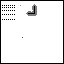
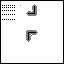
added lamp to player

Changed region(s): [[0.4062, 0.4688, 0.5938, 0.6562], [0.3438, 0.5625, 0.375, 0.5938]]

diff --git a/js/InvertedPacMan.js b/js/InvertedPacMan.js
@@ -1,4 +1,7 @@
 import * as THREE from "../node_modules/three/build/three.module.js";
+import { EffectComposer } from "three/examples/jsm/postprocessing/EffectComposer.js";
+import { RenderPass } from "three/examples/jsm/postprocessing/RenderPass.js";
+import { BloomPass } from "three/examples/jsm/postprocessing/BloomPass.js";
 import { Player } from "./Player.js";
 import { Skybox } from "./Skybox.js";
 import { Level } from "./Level.js";
@@ -14,7 +17,7 @@ class InvertedPacman {
 	constructor() {
 		this._init();
 
-		this._RAF();
+		this.update();
 	}
 
 	addToScene(object) {
@@ -39,6 +42,8 @@ class InvertedPacman {
 		this.renderer.shadowMap.enabled = true;
 		this.renderer.shadowMap.type = THREE.PCFShadowMap;
 
+		this.composer = new EffectComposer(this.renderer);
+
 		window.addEventListener(
 			"resize",
 			() => {
@@ -50,6 +55,8 @@ class InvertedPacman {
 
 	_initScene() {
 		this.scene = new THREE.Scene();
+
+		// this.scene.fog = new THREE.Fog(0xc5d4d9, 0, 50);
 
 		this.sun = new THREE.DirectionalLight(0xffffff);
 		this.sun.position.set(0, 1, 0);
@@ -85,7 +92,7 @@ class InvertedPacman {
 
 			this._initPacman();
 
-			// this._addDebugShapes();
+			this._addDebugShapes();
 		});
 	}
 
@@ -114,6 +121,18 @@ class InvertedPacman {
 			this._OnWindowResize();
 
 			this.ready = true;
+			this.scene.add(new THREE.SpotLightHelper(this.player.lamp));
+
+			const renderPass = new RenderPass(this.scene, this.player.camera);
+			this.composer.addPass(renderPass);
+
+			const bloomPass = new BloomPass(
+				1, // strength
+				25, // kernel size
+				4, // sigma ?
+				256 // blur render target resolution
+			);
+			this.composer.addPass(bloomPass);
 		});
 	}
 
@@ -151,8 +170,8 @@ class InvertedPacman {
 		this.player.boundingBox.setFromObject(this.player.model);
 		this.pacman.boundingBox.setFromObject(this.pacman.model);
 
-		// this.playerBoxHelper.box = this.player.boundingBox;
-		// this.pacmanBoxHelper.box = this.pacman.boundingBox;
+		this.playerBoxHelper.box = this.player.boundingBox;
+		this.pacmanBoxHelper.box = this.pacman.boundingBox;
 
 		if (this.player.boundingBox.intersectsBox(this.pacman.boundingBox)) {
 			dispatchEvent(this.playerPacmanCollision);
@@ -161,15 +180,26 @@ class InvertedPacman {
 
 	clock = new THREE.Clock();
 
-	_RAF() {
+	// update() {
+	// 	if (!this.ready) {
+	// 		this.update();
+	// 		return;
+	// 	}
+	// 	requestAnimationFrame(this.update);
+	// 	this.renderer.render(this.scene, this.player.camera);
+	// 	const delta = this.clock.getDelta();
+	// 	// this.composer.render(delta);
+	// }
+
+	update() {
 		requestAnimationFrame(() => {
 			if (!this.ready) {
-				this._RAF();
+				this.update();
 				return;
 			}
-			this.renderer.render(this.scene, this.player.camera);
-			// this.renderer.render(this.scene, this.camera);
 			let delta = this.clock.getDelta();
+			this.renderer.render(this.scene, this.player.camera);
+			// this.composer.render(delta);
 
 			this.player.update(delta, this.clock.getElapsedTime());
 
@@ -179,7 +209,7 @@ class InvertedPacman {
 
 			this.checkPlayerPacmanCollision();
 
-			this._RAF();
+			this.update();
 		});
 	}
 }

diff --git a/js/Player.js b/js/Player.js
@@ -35,6 +35,7 @@ export class Player extends DynamicBody {
 
 	model;
 	camera;
+	lamp;
 
 	get getModel() {
 		return this.model;
@@ -145,19 +146,44 @@ export class Player extends DynamicBody {
 			function shaderLoaded(material) {
 				material.transparent = true;
 				material.lights = true;
+				let lightTarget;
 				mesh.traverse(function (obj) {
 					if (obj.isMesh) {
 						if (obj.name == "Ghost") {
 							obj.castShadow = true;
 							obj.receiveShadow = true;
 							obj.material = material;
+							self.calculateExtents(obj.geometry);
 						}
 					}
+					if (obj.name == "LampPoint") {
+						let light = new THREE.SpotLight(0xfcd08d);
+						light.layers.enable(1);
+						light.castShadow = true;
+						light.angle = Math.PI / 6;
+						light.distance = 25;
+						light.position.set(0, 0, 0);
+						light.intensity = 2;
+						light.decay = 1;
+						light.penumbra = 0.4;
+						// light.shadow.mapSize.width = 1024;
+						// light.shadow.mapSize.height = 1024;
+						// light.shadow.camera.near = 500;
+						// light.shadow.camera.far = 4000;
+						// light.shadow.camera.fov = 30;
+
+						self.lamp = light;
+						obj.add(self.lamp);
+					}
+					if (obj.name == "LightTarget") {
+						lightTarget = obj;
+					}
 				});
+				// console.log(mesh);
+				self.lamp.target = lightTarget;
 
 				self.ready = true;
 				self._initCamera(rendererDomElement);
-				self.calculateExtents(mesh.children[0].children[0].geometry); // Ugly hardcoding, but oh well
 				dispatchEvent(self.playerLoaded);
 			}
 		});

diff --git a/js/Pacman.js b/js/Pacman.js
@@ -62,7 +62,7 @@ export class Pacman extends Ai {
 			return;
 		}
 
-		this._movePacman(delta, playerPos);
+		// this._movePacman(delta, playerPos);
 
 		// update animations
 		this.mixer.update(delta);
